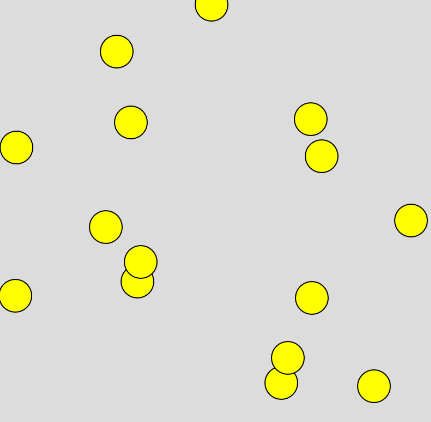
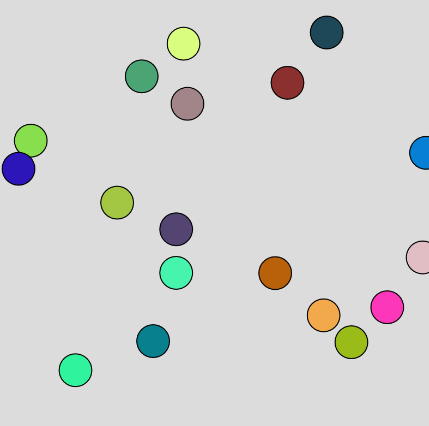
v002

diff --git a/07-balls/ball.js b/07-balls/ball.js
@@ -2,12 +2,13 @@ class Ball {
   constructor(x, y) {
     this.x = x;
     this.y = y;
-    this.dx = 2;
-    this.dy = 3;
+    this.dx = random(-2, 2);
+    this.dy = random(-3, 3);
+    this.col = color(random(255), random(255), random(255));
   }
 
   drawCircle() {
-    fill(255, 255, 0);
+    fill(this.col);
     ellipse(this.x, this.y, 30, 30);
   }
 
@@ -25,3 +26,4 @@ class Ball {
     }
   }
 }
+
